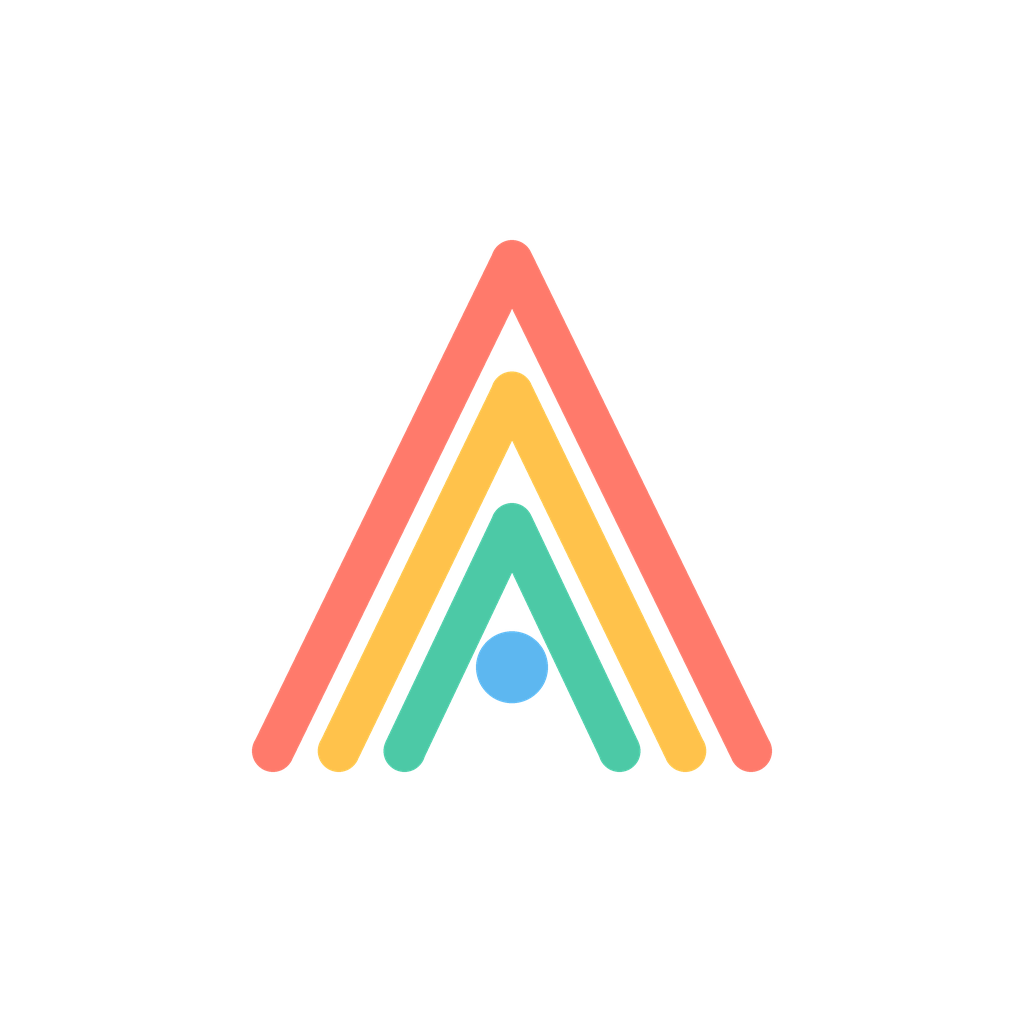
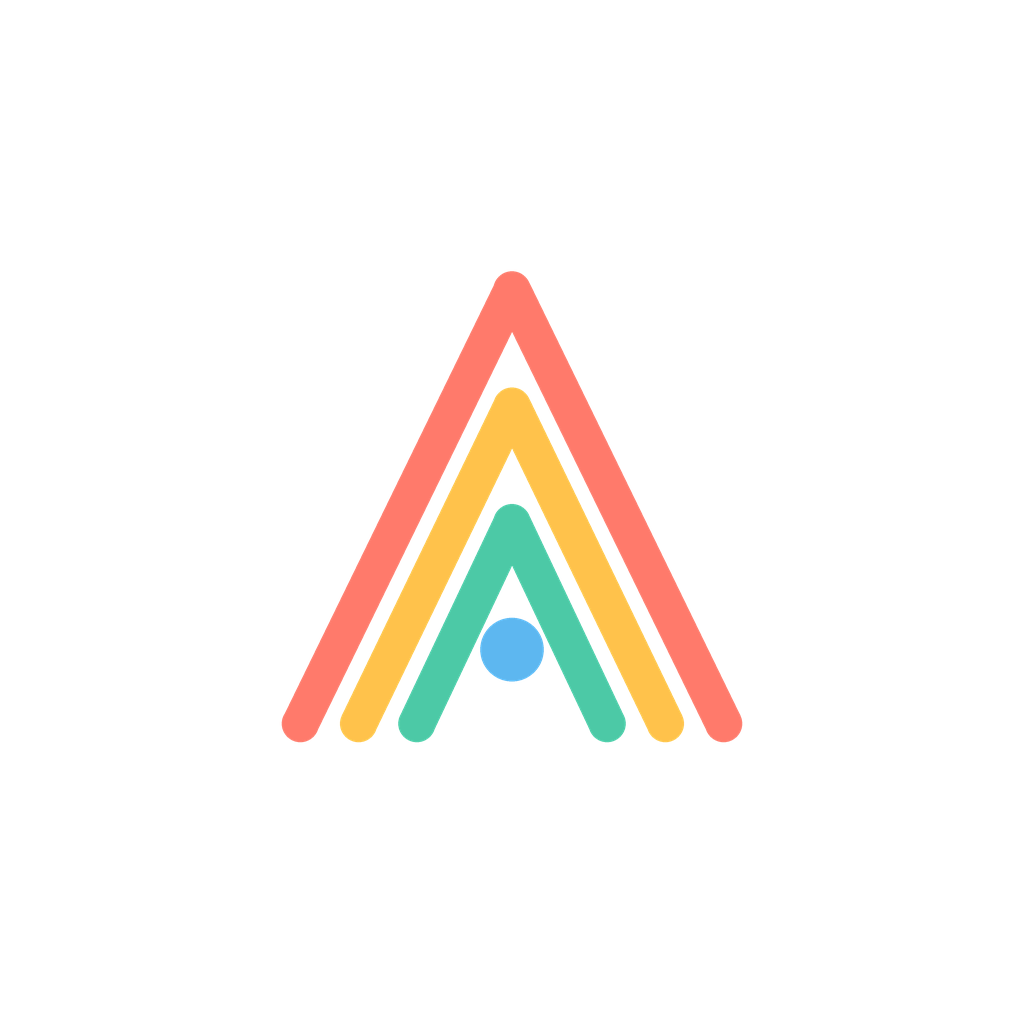
Icône : suppression de l'inset supplémentaire, A plus grand ; v1.0.5

Changed region(s): [[0.25, 0.2188, 0.75, 0.75]]

diff --git a/assets/make_icons.py b/assets/make_icons.py
@@ -15,5 +15,5 @@ def render(size, bg, pad=0.1, out=None):
     img=img.resize((size,size),Image.LANCZOS)
     img.save(out)
 render(1024,'#FFFFFF',pad=.05,out='assets/icon_full.png')
-render(1024,(0,0,0,0),pad=.15,out='assets/icon_fg.png')   # adaptive foreground (safe zone)
+render(1024,(0,0,0,0),pad=.19,out='assets/icon_fg.png')   # adaptive foreground (safe zone)
 render(512,(0,0,0,0),pad=.02,out='assets/logo_a8.png')     # in-app logo
